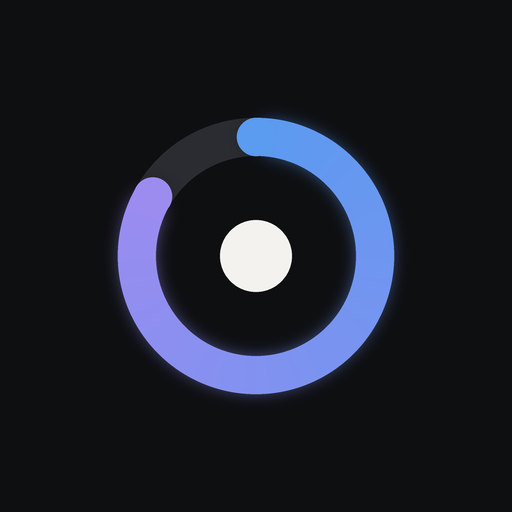
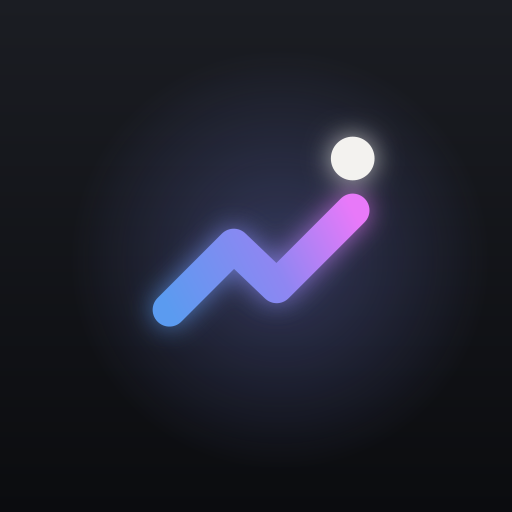
Replace app with redesigned version
New app icon and line icons, minimal notification artwork, icon tab bar,
fully responsive layout from 320px phones to wide desktops.

Claude-Session: https://claude.ai/code/session_01KfAzBMcSSH2gxr9d6scG8H

Changed region(s): [[0.2188, 0.1562, 0.875, 0.7812]]

diff --git a/index.html b/index.html
@@ -248,7 +248,8 @@ summary{cursor:pointer;font-weight:700;font-size:14px}
 /* in-app nudge */
 .nudge{position:fixed;left:50%;top:max(14px,env(safe-area-inset-top));transform:translate(-50%,-140%);width:min(520px,calc(100vw - 20px));background:linear-gradient(135deg,color-mix(in srgb,var(--c) 26%,#17181b),#17181b 70%);border:1px solid color-mix(in srgb,var(--c) 45%,transparent);border-radius:22px;padding:16px 16px 14px;display:grid;grid-template-columns:54px minmax(0,1fr);gap:14px;z-index:45;box-shadow:0 18px 50px #000a,0 0 40px color-mix(in srgb,var(--c) 25%,transparent);transition:transform .55s cubic-bezier(.2,1.2,.3,1)}
 .nudge.on{transform:translate(-50%,0)}
-.nudge .em{width:54px;height:54px;border-radius:18px;display:grid;place-items:center;font-size:28px;background:color-mix(in srgb,var(--c) 22%,#0e0f11);box-shadow:inset 0 0 0 1px color-mix(in srgb,var(--c) 40%,transparent)}
+.nudge .em{width:54px;height:54px;border-radius:18px;display:grid;place-items:center;color:var(--c);background:color-mix(in srgb,var(--c) 16%,#0e0f11);box-shadow:inset 0 0 0 1px color-mix(in srgb,var(--c) 38%,transparent)}
+.nudge .em .gl{width:26px;height:26px;stroke-width:2}
 .nudge .nt{font-size:17px;font-weight:800;line-height:1.2}
 .nudge .nl{font-size:14px;color:#d9d7d2;margin-top:3px}
 .nudge .nm{font-size:12.5px;color:var(--mute);margin-top:4px}
@@ -256,11 +257,15 @@ summary{cursor:pointer;font-weight:700;font-size:14px}
 .nudge .bar{position:absolute;left:16px;right:16px;bottom:6px;height:3px;border-radius:3px;background:var(--line);overflow:hidden}
 .nudge .bar i{display:block;height:100%;background:var(--c);transform-origin:left;animation:shrink var(--t,18s) linear forwards}
 @keyframes shrink{to{transform:scaleX(0)}}
+/* glyphs */
+.gl{width:20px;height:20px;fill:none;stroke:currentColor;stroke-width:2;stroke-linecap:round;stroke-linejoin:round;flex:none}
 /* nav */
 nav{position:fixed;left:50%;bottom:max(12px,env(safe-area-inset-bottom));transform:translateX(-50%);display:flex;gap:2px;background:#1b1c20ee;backdrop-filter:blur(14px);-webkit-backdrop-filter:blur(14px);border:1px solid var(--line);border-radius:18px;padding:5px;z-index:20;max-width:calc(100vw - 16px)}
-nav a{color:var(--mute);text-decoration:none;font-weight:700;font-size:14px;padding:10px 15px;border-radius:13px;min-height:44px;display:flex;align-items:center;white-space:nowrap}
+nav a{color:var(--mute);text-decoration:none;font-weight:700;font-size:14px;padding:9px 14px;border-radius:13px;min-height:44px;display:flex;align-items:center;gap:8px;white-space:nowrap;transition:background .2s,color .2s}
+nav a .gl{width:18px;height:18px}
+nav a:hover{color:var(--ink)}
 nav a.on{background:var(--ink);color:var(--bg)}
-@media(max-width:420px){nav a{padding:10px 10px;font-size:13px}}
+@media(max-width:640px){nav{left:8px;right:8px;transform:none;justify-content:space-between;max-width:none;border-radius:20px;padding:4px}nav a{flex:1;flex-direction:column;gap:3px;font-size:11px;padding:7px 2px;justify-content:center;border-radius:15px}nav a .gl{width:21px;height:21px}}
 .toast{position:fixed;left:50%;top:max(16px,env(safe-area-inset-top));transform:translate(-50%,-20px);background:var(--ink);color:var(--bg);font-weight:700;font-size:14px;padding:10px 16px;border-radius:12px;opacity:0;transition:.3s;z-index:30;pointer-events:none;max-width:90vw;text-align:center}
 .toast.on{opacity:1;transform:translate(-50%,0)}
 .modal{position:fixed;inset:0;display:none;place-items:center;background:#0e0f11cc;z-index:40;padding:16px}
@@ -349,7 +354,7 @@ nav a.on{background:var(--ink);color:var(--bg)}
   <section class="view" id="v-plan"><div id="planWrap"></div></section>
 </div>
 
-<nav aria-label="Views"><a href="#today" data-v="today">Today</a><a href="#goals" data-v="goals">Goals</a><a href="#calendar" data-v="calendar">Calendar</a><a href="#progress" data-v="progress">Progress</a><a href="#plan" data-v="plan">Plan</a></nav>
+<nav aria-label="Views" id="nav"><a href="#today" data-v="today">Today</a><a href="#goals" data-v="goals">Goals</a><a href="#calendar" data-v="calendar">Calendar</a><a href="#progress" data-v="progress">Progress</a><a href="#plan" data-v="plan">Plan</a></nav>
 <div class="toast" id="toast" role="status"></div>
 <div class="nudge" id="nudge" role="alert" aria-live="assertive"></div>
 <div class="modal" id="modal" role="dialog" aria-modal="true"><div class="box" id="mbox"></div></div>
@@ -358,6 +363,8 @@ nav a.on{background:var(--ink);color:var(--bg)}
 <script>
 {
 const DEFAULTS = {"v": 3, "settings": {"name": "Shay", "notify": false, "lead": 5}, "app": "Ascend", "areas": {"java": {"name": "Java & DSA", "color": "#5b9bf0", "prompt": "Teach me [topic] in Java from zero. One small example, then 3 exercises without solutions."}, "math": {"name": "Maths", "color": "#9c8cf0", "prompt": "Explain [topic] simply with numbers, then give me 5 practice questions."}, "zh": {"name": "Chinese", "color": "#f07468", "prompt": "Teach me 10 HSK 1 words with pinyin and tones, then quiz me."}, "comm": {"name": "Communication", "color": "#f3a25a", "prompt": "Role-play a customer. After 10 messages, tell me how confident I sounded."}, "net": {"name": "Networking", "color": "#e3c44e", "prompt": "Help me write a short follow-up message to [person] I met at [place]."}, "book": {"name": "Books & psychology", "color": "#5dc48a", "prompt": "Here is my summary of [chapter]. Ask me 5 questions and tell me what I missed."}, "gym": {"name": "Gym", "color": "#43c2b8", "prompt": ""}, "refl": {"name": "Review", "color": "#e07bc0", "prompt": "Here's my reflection. Ask me 3 questions, then help me choose tomorrow's one task."}, "ai": {"name": "Python & AI", "color": "#a3e635", "prompt": "Teach me [topic] in Python with one small example, then give me a mini exercise without the solution."}, "uni": {"name": "Uni", "color": "#94a3b8", "prompt": "Help me plan my study for [course] this week. Ask what's due first."}, "eng": {"name": "English & writing", "color": "#7dd3fc", "prompt": "Correct my English in this paragraph. List each mistake with a short reason, then give me 5 useful words."}, "money": {"name": "Money", "color": "#d4a373", "prompt": "Explain [concept] for someone in Australia with simple numbers. I'll decide myself."}, "biz": {"name": "Business & startups", "color": "#e879f9", "prompt": "Act as a tough startup mentor. Here's my idea. Ask me the hardest questions an investor would ask."}, "style": {"name": "Fashion", "color": "#f9a8d4", "prompt": "Here's my outfit. Give honest feedback on fit, colours and what to change."}}, "templates": [{"from": "2026-11-21", "week": {"0": [{"s": "07:30", "e": "08:00", "a": "zh", "t": "Chinese"}, {"s": "08:00", "e": "09:30", "a": "java", "t": "Java & DSA: new concept"}, {"s": "09:45", "e": "10:45", "a": "math", "t": "Maths"}, {"s": "11:00", "e": "12:00", "a": "gym", "t": "Gym: upper"}, {"s": "13:30", "e": "14:30", "a": "java", "t": "DSA problems"}, {"s": "15:00", "e": "16:00", "a": "book", "t": "Book"}, {"s": "16:00", "e": "17:00", "a": "comm", "t": "Talk practice"}, {"s": "19:00", "e": "20:00", "a": "net", "t": "LinkedIn & outreach"}], "1": [{"s": "07:30", "e": "08:00", "a": "zh", "t": "Chinese"}, {"s": "08:00", "e": "09:30", "a": "java", "t": "Java & DSA"}, {"s": "09:45", "e": "10:45", "a": "gym", "t": "Gym: lower"}, {"s": "19:00", "e": "20:00", "a": "book", "t": "Book"}], "2": [{"s": "07:30", "e": "08:00", "a": "zh", "t": "Chinese"}, {"s": "08:00", "e": "09:30", "a": "java", "t": "Java & DSA"}, {"s": "09:45", "e": "10:45", "a": "math", "t": "Maths"}, {"s": "19:00", "e": "20:00", "a": "net", "t": "Event / social"}], "3": [{"s": "07:30", "e": "08:00", "a": "zh", "t": "Chinese"}, {"s": "08:00", "e": "09:30", "a": "java", "t": "Java & DSA: new concept"}, {"s": "09:45", "e": "10:45", "a": "math", "t": "Maths"}, {"s": "11:00", "e": "12:00", "a": "gym", "t": "Gym: upper"}, {"s": "13:30", "e": "14:30", "a": "java", "t": "DSA problems"}, {"s": "15:00", "e": "16:00", "a": "book", "t": "Psychology"}, {"s": "16:00", "e": "17:00", "a": "comm", "t": "Record a 2-min talk"}], "4": [{"s": "07:30", "e": "08:00", "a": "zh", "t": "Chinese"}, {"s": "08:00", "e": "09:30", "a": "java", "t": "Java project"}, {"s": "09:45", "e": "10:45", "a": "math", "t": "Maths"}, {"s": "11:00", "e": "12:00", "a": "gym", "t": "Gym: lower"}, {"s": "13:30", "e": "14:30", "a": "book", "t": "Psychology"}, {"s": "15:00", "e": "16:00", "a": "net", "t": "Coffee chat"}], "5": [{"s": "07:30", "e": "08:00", "a": "zh", "t": "Chinese"}], "6": [{"s": "09:45", "e": "10:15", "a": "zh", "t": "Chinese review"}, {"s": "16:00", "e": "17:00", "a": "refl", "t": "Weekly review"}]}, "nightly": {"s": "21:30", "e": "21:35", "a": "refl", "t": "5-min reflection"}}, {"from": "2027-02-22", "week": {"0": [{"s": "07:30", "e": "07:50", "a": "zh", "t": "Chinese"}, {"s": "08:00", "e": "09:00", "a": "java", "t": "DSA practice"}, {"s": "10:00", "e": "15:00", "a": "uni", "t": "Uni: classes & study"}, {"s": "15:30", "e": "16:30", "a": "gym", "t": "Gym: upper"}, {"s": "19:00", "e": "20:00", "a": "ai", "t": "Python & data libraries"}], "1": [{"s": "07:30", "e": "07:50", "a": "zh", "t": "Chinese"}, {"s": "08:00", "e": "09:30", "a": "ai", "t": "Python & data libraries"}, {"s": "19:00", "e": "19:30", "a": "eng", "t": "English: write & correct"}, {"s": "19:30", "e": "20:00", "a": "book", "t": "Book"}], "2": [{"s": "07:30", "e": "07:50", "a": "zh", "t": "Chinese"}, {"s": "08:00", "e": "09:00", "a": "math", "t": "Maths for ML"}, {"s": "10:00", "e": "15:00", "a": "uni", "t": "Uni: classes & study"}, {"s": "18:00", "e": "19:30", "a": "net", "t": "Event / networking"}], "3": [{"s": "07:30", "e": "07:50", "a": "zh", "t": "Chinese"}, {"s": "08:00", "e": "09:30", "a": "java", "t": "DSA: advanced topics"}, {"s": "10:00", "e": "15:00", "a": "uni", "t": "Uni: classes & study"}, {"s": "15:30", "e": "16:30", "a": "gym", "t": "Gym: lower"}, {"s": "19:00", "e": "19:30", "a": "comm", "t": "Public speaking practice"}], "4": [{"s": "07:30", "e": "07:50", "a": "zh", "t": "Chinese"}, {"s": "08:00", "e": "09:00", "a": "ai", "t": "Portfolio project"}, {"s": "10:00", "e": "14:00", "a": "uni", "t": "Uni: classes & study"}, {"s": "14:30", "e": "15:30", "a": "gym", "t": "Gym: upper"}, {"s": "16:00", "e": "16:30", "a": "money", "t": "Money check: budget & savings"}, {"s": "16:30", "e": "17:30", "a": "biz", "t": "Business & startups"}], "5": [{"s": "08:00", "e": "08:20", "a": "zh", "t": "Chinese"}, {"s": "17:00", "e": "18:00", "a": "style", "t": "Fashion: learn & plan outfits"}], "6": [{"s": "09:30", "e": "10:00", "a": "zh", "t": "Chinese review"}, {"s": "10:30", "e": "11:30", "a": "gym", "t": "Gym: lower"}, {"s": "16:00", "e": "16:45", "a": "refl", "t": "Weekly review"}, {"s": "16:45", "e": "17:15", "a": "ai", "t": "AI news & updates"}]}, "nightly": {"s": "21:30", "e": "21:35", "a": "refl", "t": "5-min reflection"}}, {"from": "2027-07-01", "week": {"0": [{"s": "07:30", "e": "07:50", "a": "zh", "t": "Chinese"}, {"s": "08:00", "e": "09:00", "a": "java", "t": "Interview problems"}, {"s": "10:00", "e": "15:00", "a": "uni", "t": "Uni: classes & study"}, {"s": "15:30", "e": "16:30", "a": "gym", "t": "Gym: upper"}, {"s": "19:00", "e": "20:30", "a": "ai", "t": "AI app project"}], "1": [{"s": "07:30", "e": "07:50", "a": "zh", "t": "Chinese"}, {"s": "08:00", "e": "09:30", "a": "ai", "t": "Machine learning course"}, {"s": "19:00", "e": "20:00", "a": "biz", "t": "Job applications"}, {"s": "20:00", "e": "20:30", "a": "book", "t": "Book"}], "2": [{"s": "07:30", "e": "07:50", "a": "zh", "t": "Chinese"}, {"s": "08:00", "e": "09:00", "a": "comm", "t": "Mock interview"}, {"s": "10:00", "e": "15:00", "a": "uni", "t": "Uni: classes & study"}, {"s": "18:00", "e": "19:30", "a": "net", "t": "Event / coffee chat"}], "3": [{"s": "07:30", "e": "07:50", "a": "zh", "t": "Chinese"}, {"s": "08:00", "e": "09:30", "a": "ai", "t": "AI app project"}, {"s": "10:00", "e": "15:00", "a": "uni", "t": "Uni: classes & study"}, {"s": "15:30", "e": "16:30", "a": "gym", "t": "Gym: lower"}, {"s": "19:00", "e": "19:30", "a": "eng", "t": "English & writing"}], "4": [{"s": "07:30", "e": "07:50", "a": "zh", "t": "Chinese"}, {"s": "08:00", "e": "09:00", "a": "math", "t": "Statistics for ML"}, {"s": "10:00", "e": "14:00", "a": "uni", "t": "Uni: classes & study"}, {"s": "14:30", "e": "15:30", "a": "gym", "t": "Gym: upper"}, {"s": "16:00", "e": "16:30", "a": "money", "t": "Investing check-in"}, {"s": "16:30", "e": "17:30", "a": "biz", "t": "Side income project"}], "5": [{"s": "08:00", "e": "08:20", "a": "zh", "t": "Chinese"}, {"s": "17:00", "e": "18:00", "a": "style", "t": "Fashion photo shoot"}], "6": [{"s": "09:30", "e": "10:00", "a": "zh", "t": "Chinese conversation"}, {"s": "10:30", "e": "11:30", "a": "gym", "t": "Gym: lower"}, {"s": "16:00", "e": "16:45", "a": "refl", "t": "Weekly review"}, {"s": "16:45", "e": "17:15", "a": "ai", "t": "AI news & updates"}]}, "nightly": {"s": "21:30", "e": "21:35", "a": "refl", "t": "5-min reflection"}}], "cats": {"career": {"name": "Career & money", "color": "#e879f9"}, "steps": {"name": "Career steps", "color": "#5b9bf0"}, "money": {"name": "Money habits", "color": "#d4a373"}, "tech": {"name": "Programming & AI", "color": "#a3e635"}, "skills": {"name": "Skills", "color": "#f3a25a"}, "growth": {"name": "Learning & growth", "color": "#f07468"}, "health": {"name": "Health & lifestyle", "color": "#43c2b8"}, "track": {"name": "Staying on track", "color": "#e07bc0"}}, "goals": [{"id": "g1", "title": "Java & data structures", "cat": "tech", "start": "2026-11-21", "target": "2027-02-21", "why": "", "status": "auto", "note": "", "milestones": [{"t": "Java OOP refresh, arrays, ArrayList, HashMap", "done": false}, {"t": "Recursion, linked lists, stacks, queues", "done": false}, {"t": "Trees, hash maps, sorting & searching, Big-O", "done": false}, {"t": "Solve 60 coding problems", "done": false}]}, {"id": "g2", "title": "Basic maths for programming", "cat": "tech", "start": "2026-11-21", "target": "2027-02-21", "why": "", "status": "auto", "note": "", "milestones": [{"t": "Algebra, functions & logic", "done": false}, {"t": "Sets, counting & probability", "done": false}, {"t": "Logs, sequences & induction", "done": false}]}, {"id": "g3", "title": "Chinese: HSK 1", "cat": "growth", "start": "2026-11-21", "target": "2027-02-21", "why": "", "status": "auto", "note": "", "milestones": [{"t": "Pinyin & the 4 tones", "done": false}, {"t": "100 words", "done": false}, {"t": "All HSK 1 words", "done": false}, {"t": "Speak 1 minute about yourself", "done": false}]}, {"id": "g4", "title": "Networking foundations", "cat": "growth", "start": "2026-11-21", "target": "2027-02-21", "why": "", "status": "auto", "note": "", "milestones": [{"t": "Read Never Eat Alone", "done": false}, {"t": "LinkedIn updated", "done": false}, {"t": "Connect with 10 people", "done": false}, {"t": "3 coffee chats", "done": false}]}, {"id": "g5", "title": "Psychology & communication books", "cat": "growth", "start": "2026-11-21", "target": "2027-02-21", "why": "", "status": "auto", "note": "", "milestones": [{"t": "Never Eat Alone", "done": false}, {"t": "How to Win Friends and Influence People", "done": false}, {"t": "Mindset", "done": false}, {"t": "Influence", "done": false}, {"t": "The Charisma Myth", "done": false}, {"t": "Thinking, Fast and Slow", "done": false}]}, {"id": "g6", "title": "Daily reflection habit", "cat": "track", "start": "2026-11-21", "target": "2027-02-21", "why": "", "status": "auto", "note": "", "milestones": [{"t": "7-day streak", "done": false}, {"t": "30-day streak", "done": false}, {"t": "Weekly review every Sunday for a month", "done": false}]}, {"id": "g7", "title": "Time management with a weekly plan", "cat": "skills", "start": "2026-11-21", "target": "2027-02-21", "why": "", "status": "auto", "note": "", "milestones": [{"t": "Follow the plan 4 weeks in a row", "done": false}, {"t": "Use the busy-day minimum on heavy days", "done": false}, {"t": "Hit 70% of planned time in a month", "done": false}]}, {"id": "g8", "title": "Confident communication & conversation", "cat": "skills", "start": "2026-11-21", "target": "2027-12-31", "why": "", "status": "auto", "note": "", "milestones": [{"t": "3 real conversations every shift", "done": false}, {"t": "Tell a short story with structure", "done": false}, {"t": "Record 2-minute talks that feel natural", "done": false}, {"t": "Lead a group conversation at an event", "done": false}]}, {"id": "g9", "title": "Gym discipline & weight gain", "cat": "health", "start": "2026-11-21", "target": "2027-12-31", "why": "", "status": "auto", "note": "", "milestones": [{"t": "4 days a week for 12 weeks", "done": false}, {"t": "Simple whole-food meal plan", "done": false}, {"t": "Visible progress photo at 3 months", "done": false}, {"t": "Keep 4 days a week through semester", "done": false}]}, {"id": "g10", "title": "Expand vocabulary", "cat": "growth", "start": "2026-11-21", "target": "2027-12-31", "why": "", "status": "auto", "note": "", "milestones": [{"t": "10 new words per book", "done": false}, {"t": "Use new words in writing every week", "done": false}, {"t": "200 new words", "done": false}]}, {"id": "g11", "title": "Improve English", "cat": "growth", "start": "2026-11-21", "target": "2027-12-31", "why": "", "status": "auto", "note": "", "milestones": [{"t": "15 minutes a day", "done": false}, {"t": "Write and correct 1 piece a week", "done": false}, {"t": "Write a clear 1-page project write-up", "done": false}]}, {"id": "g12", "title": "Keep up with AI updates", "cat": "tech", "start": "2026-11-21", "target": "2027-12-31", "why": "", "status": "auto", "note": "", "milestones": [{"t": "30 minutes every Sunday", "done": false}, {"t": "Try one new AI tool a month", "done": false}, {"t": "Share what you learned in a post", "done": false}]}, {"id": "g13", "title": "Strong grades in Semester 1", "cat": "steps", "start": "2027-02-22", "target": "2027-06-30", "why": "", "status": "auto", "note": "", "milestones": [{"t": "Review lectures the same week", "done": false}, {"t": "Start assignments a week early", "done": false}, {"t": "Strong results in every course", "done": false}]}, {"id": "g14", "title": "Python & data libraries", "cat": "tech", "start": "2027-02-22", "target": "2027-06-30", "why": "", "status": "auto", "note": "", "milestones": [{"t": "Python basics", "done": false}, {"t": "NumPy", "done": false}, {"t": "Pandas", "done": false}, {"t": "Matplotlib charts", "done": false}]}, {"id": "g15", "title": "Maths for machine learning", "cat": "tech", "start": "2027-02-22", "target": "2027-06-30", "why": "", "status": "auto", "note": "", "milestones": [{"t": "Vectors & matrices", "done": false}, {"t": "Statistics basics", "done": false}, {"t": "Probability for ML", "done": false}]}, {"id": "g16", "title": "Portfolio: GitHub & LinkedIn", "cat": "steps", "start": "2027-02-22", "target": "2027-06-30", "why": "", "status": "auto", "note": "", "milestones": [{"t": "GitHub profile set up", "done": false}, {"t": "2 projects with clear READMEs", "done": false}, {"t": "LinkedIn headline & projects updated", "done": false}]}, {"id": "g17", "title": "Budget & automatic saving", "cat": "money", "start": "2027-02-22", "target": "2027-06-30", "why": "", "status": "auto", "note": "", "milestones": [{"t": "Write a simple budget", "done": false}, {"t": "Automatic transfer to savings each payday", "done": false}, {"t": "Emergency fund: 1 month of expenses", "done": false}]}, {"id": "g18", "title": "Understand personal finance & investing", "cat": "career", "start": "2027-02-22", "target": "2027-06-30", "why": "", "status": "auto", "note": "", "milestones": [{"t": "Super & tax return basics", "done": false}, {"t": "How ETFs and index funds work", "done": false}, {"t": "Decide your own monthly investing amount", "done": false}]}, {"id": "g19", "title": "Public speaking", "cat": "skills", "start": "2027-02-22", "target": "2027-06-30", "why": "", "status": "auto", "note": "", "milestones": [{"t": "Speak up in every tutorial", "done": false}, {"t": "Join a club or society", "done": false}, {"t": "Give a 5-minute talk", "done": false}]}, {"id": "g20", "title": "Chinese: HSK 2", "cat": "growth", "start": "2027-02-22", "target": "2027-06-30", "why": "", "status": "auto", "note": "", "milestones": [{"t": "150 more words", "done": false}, {"t": "Simple daily conversations", "done": false}, {"t": "Practice test passed", "done": false}]}, {"id": "g21", "title": "Learn Australian startups & entrepreneurship", "cat": "career", "start": "2027-02-22", "target": "2027-06-30", "why": "", "status": "auto", "note": "", "milestones": [{"t": "1 startup or tech event a month", "done": false}, {"t": "Know 10 Canberra startups and their founders", "done": false}, {"t": "Write notes on how 3 of them started", "done": false}]}, {"id": "g22", "title": "Business fundamentals", "cat": "career", "start": "2027-02-22", "target": "2027-06-30", "why": "", "status": "auto", "note": "", "milestones": [{"t": "Read The Lean Startup", "done": false}, {"t": "Business model canvas for one idea", "done": false}, {"t": "Talk to 5 potential customers", "done": false}]}, {"id": "g23", "title": "Sales & negotiation", "cat": "skills", "start": "2027-02-22", "target": "2027-06-30", "why": "", "status": "auto", "note": "", "milestones": [{"t": "Practise one sales technique per shift", "done": false}, {"t": "Read Never Split the Difference", "done": false}, {"t": "Negotiate one real price", "done": false}]}, {"id": "g24", "title": "Clear writing", "cat": "skills", "start": "2027-02-22", "target": "2027-06-30", "why": "", "status": "auto", "note": "", "milestones": [{"t": "1 LinkedIn post a month", "done": false}, {"t": "Clear READMEs for every project", "done": false}, {"t": "Get feedback on one piece of writing", "done": false}]}, {"id": "g25", "title": "Learn about fashion", "cat": "health", "start": "2027-02-22", "target": "2027-06-30", "why": "", "status": "auto", "note": "", "milestones": [{"t": "Fit and colour basics", "done": false}, {"t": "Plan a simple capsule wardrobe", "done": false}, {"t": "5 outfits you feel great in", "done": false}]}, {"id": "g26", "title": "Machine learning & deep learning", "cat": "tech", "start": "2027-07-01", "target": "2027-12-31", "why": "", "status": "auto", "note": "", "milestones": [{"t": "Classical ML with scikit-learn", "done": false}, {"t": "Neural networks with PyTorch", "done": false}, {"t": "NLP & transformers basics", "done": false}]}, {"id": "g27", "title": "Build & deploy an AI app", "cat": "tech", "start": "2027-07-01", "target": "2027-12-31", "why": "", "status": "auto", "note": "", "milestones": [{"t": "Pick an idea and scope it", "done": false}, {"t": "Working MVP", "done": false}, {"t": "Deployed online", "done": false}, {"t": "Write-up on GitHub & LinkedIn", "done": false}]}, {"id": "g28", "title": "3 strong portfolio projects", "cat": "steps", "start": "2027-07-01", "target": "2027-12-31", "why": "", "status": "auto", "note": "", "milestones": [{"t": "Project 1 polished", "done": false}, {"t": "Project 2 polished", "done": false}, {"t": "AI app as project 3", "done": false}]}, {"id": "g29", "title": "Land an AI/ML internship or graduate job", "cat": "steps", "start": "2027-07-01", "target": "2027-12-31", "why": "", "status": "auto", "note": "", "milestones": [{"t": "List 15 target companies & dates", "done": false}, {"t": "CV reviewed by ANU Careers", "done": false}, {"t": "Apply to 5 roles a week in season", "done": false}, {"t": "Weekly mock interviews", "done": false}, {"t": "Offer accepted", "done": false}]}, {"id": "g30", "title": "Invest every month", "cat": "money", "start": "2027-07-01", "target": "2027-12-31", "why": "", "status": "auto", "note": "", "milestones": [{"t": "Choose a platform after research", "done": false}, {"t": "First investment", "done": false}, {"t": "6 months in a row", "done": false}]}, {"id": "g31", "title": "Test a side income (e.g. car reselling)", "cat": "money", "start": "2027-07-01", "target": "2027-12-31", "why": "", "status": "auto", "note": "", "milestones": [{"t": "Set a budget and a stop point", "done": false}, {"t": "First deal done", "done": false}, {"t": "Review: keep going or stop", "done": false}]}, {"id": "g32", "title": "Camera & fashion photos for Instagram", "cat": "health", "start": "2027-07-01", "target": "2027-12-31", "why": "", "status": "auto", "note": "", "milestones": [{"t": "Buy a camera once savings are on track", "done": false}, {"t": "First 10 photos", "done": false}, {"t": "Post every week for a month", "done": false}]}, {"id": "g33", "title": "Chinese: HSK 2–3 conversations", "cat": "growth", "start": "2027-07-01", "target": "2027-12-31", "why": "", "status": "auto", "note": "", "milestones": [{"t": "10-minute conversation", "done": false}, {"t": "HSK 3 vocabulary started", "done": false}, {"t": "Chat with a native speaker", "done": false}]}, {"id": "g34", "title": "Network: referrals & mentors", "cat": "growth", "start": "2027-07-01", "target": "2027-12-31", "why": "", "status": "auto", "note": "", "milestones": [{"t": "Ask 3 contacts for coffee chats", "done": false}, {"t": "Find a mentor", "done": false}, {"t": "1 referral for a role", "done": false}]}, {"id": "g35", "title": "Finish Master's with strong grades", "cat": "steps", "start": "2027-07-01", "target": "2027-12-31", "why": "", "status": "auto", "note": "", "milestones": [{"t": "Strong Semester 2 results", "done": false}, {"t": "Final project done", "done": false}, {"t": "Graduate", "done": false}]}, {"id": "g36", "title": "Become a leader & build a startup", "cat": "career", "start": "2028-01-01", "target": "2031-12-31", "why": "", "status": "auto", "note": "", "milestones": [{"t": "Lead a team or project", "done": false}, {"t": "Validate an idea with real customers", "done": false}, {"t": "Launch an MVP", "done": false}, {"t": "First paying customers", "done": false}]}, {"id": "g37", "title": "Become a millionaire by 30–35", "cat": "career", "start": "2026-11-21", "target": "2036-12-31", "why": "", "status": "auto", "note": "", "milestones": [{"t": "Emergency fund in place", "done": false}, {"t": "Investing every month", "done": false}, {"t": "First $10k invested", "done": false}, {"t": "Income from a business or side project", "done": false}, {"t": "Net worth $100k", "done": false}, {"t": "Net worth $1M", "done": false}]}], "periods": [{"name": "Phase 1 · Block A", "start": "2026-11-21", "end": "2026-12-20", "focus": {"java": "Java OOP refresh, arrays & strings, ArrayList and HashMap", "math": "Algebra refresh, functions & graphs, logic", "zh": "Pinyin & the 4 tones, greetings & numbers, 50 words", "comm": "3 real chats per shift, open questions, active listening", "net": "Learn the Never Eat Alone method, update LinkedIn", "book": "Never Eat Alone, then How to Win Friends and Influence People", "gym": "4 days: upper / lower, learn good form", "refl": "What did I do today? What did I learn? One task for tomorrow?"}}, {"name": "Phase 1 · Block B", "start": "2026-12-21", "end": "2027-01-24", "focus": {"java": "Recursion, linked lists, stacks & queues", "math": "Sets, counting, basic probability", "zh": "HSK 1 vocabulary, simple sentences, 100+ words", "comm": "Tell 1 short story a day, storytelling structure", "net": "Connect with 10 people, 1 coffee chat", "book": "Mindset, then Influence", "gym": "Keep 4 days over Christmas, add weight slowly", "refl": "What did I do today? What did I learn? One task for tomorrow?"}}, {"name": "Phase 1 · Block C", "start": "2027-01-25", "end": "2027-02-21", "focus": {"java": "Hash maps & trees, sorting & searching, Big-O, mini project", "math": "Logs & exponents, sequences & sums, induction basics", "zh": "Finish HSK 1, daily dialogues, 1-minute self-intro", "comm": "Record 2-minute talks, watch back, fix 1 thing", "net": "1 event or O-Week, 2 coffee chats, keep a contacts list", "book": "The Charisma Myth, then Thinking, Fast and Slow", "gym": "Same split, check progress every 2 weeks", "refl": "What did I do today? What did I learn? One task for tomorrow?"}}, {"name": "Phase 2 · Build", "start": "2027-02-22", "end": "2027-06-30", "focus": {"java": "Advanced DSA: graphs, heaps, dynamic programming; start Python, NumPy, Pandas", "math": "Maths for ML: vectors, matrices, statistics", "zh": "HSK 2, 20 minutes a day", "comm": "Speak up in tutorials, join a public speaking club", "net": "1 startup or tech event a month", "book": "1 business, finance or psychology book a month", "gym": "4 days a week", "refl": "What did I do today? What did I learn? One task for tomorrow?", "ai": "Python basics, then NumPy, Pandas and Matplotlib", "uni": "Review lectures the same week; start assignments early", "eng": "Write and correct one piece a week", "money": "Budget, automatic saving, emergency fund", "biz": "Lean Startup ideas, events, talk to customers", "style": "Fit, colour and a simple capsule wardrobe"}}, {"name": "Phase 3 · Launch", "start": "2027-07-01", "end": "2027-12-31", "focus": {"java": "Machine learning, then deep learning; build and deploy an AI app", "math": "Statistics and probability for ML", "zh": "HSK 2–3 and simple conversations", "comm": "Mock interviews and negotiation in real situations", "net": "Coffee chats and referrals for internships and graduate roles", "book": "Keep reading: business, psychology, AI", "gym": "4 days a week", "refl": "What did I do today? What did I learn? One task for tomorrow?", "ai": "Machine learning, deep learning, then deploy your AI app", "uni": "Strong results and your final project", "eng": "Clear project write-ups and cover letters", "money": "Invest monthly and track side income", "biz": "Applications 5 a week in season; test a side income", "style": "A weekly photo shoot for Instagram"}}], "books": [{"start": "2026-11-21", "end": "2026-12-04", "title": "Never Eat Alone", "author": "Keith Ferrazzi"}, {"start": "2026-12-05", "end": "2026-12-18", "title": "How to Win Friends and Influence People", "author": "Dale Carnegie"}, {"start": "2026-12-19", "end": "2027-01-01", "title": "Mindset", "author": "Carol Dweck"}, {"start": "2027-01-02", "end": "2027-01-15", "title": "Influence", "author": "Robert Cialdini"}, {"start": "2027-01-16", "end": "2027-01-29", "title": "The Charisma Myth", "author": "Olivia Fox Cabane"}, {"start": "2027-01-30", "end": "2027-02-12", "title": "Thinking, Fast and Slow", "author": "Daniel Kahneman"}, {"start": "2027-02-13", "end": "2027-03-12", "title": "The Psychology of Money", "author": "Morgan Housel"}, {"start": "2027-03-13", "end": "2027-04-12", "title": "The Lean Startup", "author": "Eric Ries"}, {"start": "2027-04-13", "end": "2027-05-12", "title": "Talk Like TED", "author": "Carmine Gallo"}, {"start": "2027-05-13", "end": "2027-06-12", "title": "Zero to One", "author": "Peter Thiel"}, {"start": "2027-06-13", "end": "2027-07-12", "title": "Never Split the Difference", "author": "Chris Voss"}, {"start": "2027-07-13", "end": "2027-08-12", "title": "The Millionaire Next Door", "author": "Thomas Stanley & William Danko"}, {"start": "2027-08-13", "end": "2027-09-12", "title": "Deep Work", "author": "Cal Newport"}, {"start": "2027-09-13", "end": "2027-10-12", "title": "The Hard Thing About Hard Things", "author": "Ben Horowitz"}, {"start": "2027-10-13", "end": "2027-11-12", "title": "Leaders Eat Last", "author": "Simon Sinek"}, {"start": "2027-11-13", "end": "2027-12-12", "title": "I Will Teach You to Be Rich", "author": "Ramit Sethi"}], "minimum": ["20 min Java or 1 DSA problem", "15 min Chinese", "10 pages of your book", "1 real conversation", "5-min reflection"], "minLinks": [{"a": "java", "m": 20}, {"a": "zh", "m": 15}, {"a": "book", "m": 10}, null, {"a": "refl", "m": 5}], "days": {}};
+const GLYPHS = {"java": "M8 7l-5 5 5 5M16 7l5 5-5 5M14 4l-4 16", "math": "M18 5H6l6 7-6 7h12", "zh": "M4 6h9M8.5 4v2M6 6c.5 3.5 3 6 7 7M11 6c-.6 3-3 6.2-6.5 7.5M13 20l4-9 4 9M14.4 17h5.2", "comm": "M21 12a8 8 0 0 1-11.6 7.1L4 20l1-4.6A8 8 0 1 1 21 12z", "net": "M16 20v-1.5a3.5 3.5 0 0 0-3.5-3.5h-5A3.5 3.5 0 0 0 4 18.5V20M10 11.5a3.5 3.5 0 1 0 0-7 3.5 3.5 0 0 0 0 7zM20 20v-1.5a3.5 3.5 0 0 0-2.5-3.3M15.5 4.7a3.5 3.5 0 0 1 0 6.6", "book": "M2 5h6a4 4 0 0 1 4 4v11a3 3 0 0 0-3-3H2zM22 5h-6a4 4 0 0 0-4 4v11a3 3 0 0 1 3-3h7z", "gym": "M6.5 6.5v11M17.5 6.5v11M3 9.5v5M21 9.5v5M6.5 12h11", "refl": "M20 14.5A8 8 0 1 1 9.5 4a6.5 6.5 0 0 0 10.5 10.5z", "ai": "M12 3l1.8 4.7 4.7 1.8-4.7 1.8L12 16l-1.8-4.7-4.7-1.8 4.7-1.8zM19 15l.8 2.2 2.2.8-2.2.8L19 21l-.8-2.2L16 18l2.2-.8z", "uni": "M2 9l10-5 10 5-10 5zM6 11v5c0 1.5 2.7 3 6 3s6-1.5 6-3v-5M22 9v6", "eng": "M12 20h9M16.5 3.5a2.1 2.1 0 0 1 3 3L7 19l-4 1 1-4z", "money": "M12 3a9 9 0 1 0 0 18 9 9 0 0 0 0-18zM15 9.5c-.5-1-1.6-1.5-3-1.5-1.7 0-3 .8-3 2s1.3 1.8 3 2 3 .8 3 2-1.3 2-3 2c-1.4 0-2.5-.5-3-1.5M12 6.5v11", "biz": "M5 15c-1.5 1.3-2 5-2 5s3.7-.5 5-2c.7-.8.7-2.1-.1-2.9a2.1 2.1 0 0 0-2.9-.1zM12 15l-3-3a22 22 0 0 1 2-4A12.9 12.9 0 0 1 22 2c0 2.7-.8 7.5-6 11a22.4 22.4 0 0 1-4 2zM9 12H4s.6-3 2-4c1.6-1.1 5 0 5 0M12 15v5s3-.6 4-2c1.1-1.6 0-5 0-5", "style": "M20.4 6.6L16 4a4 4 0 0 1-8 0L3.6 6.6a1 1 0 0 0-.5 1.2l1 3a1 1 0 0 0 1.3.6L7 10.8V20a1 1 0 0 0 1 1h8a1 1 0 0 0 1-1v-9.2l1.6.6a1 1 0 0 0 1.3-.6l1-3a1 1 0 0 0-.5-1.2z", "done": "M8 12.5l2.8 2.8L16.5 9.5", "streak": "M12 22c4 0 7-2.8 7-6.8 0-3.5-2.2-5.7-3.6-8.6-.9 2.3-2.4 3.4-3.6 3.4.3-3-1-5.6-3.3-7-.1 3.8-4.5 6.6-4.5 12.2C4 19.2 7.6 22 12 22z", "nav-today": "M12 8a4 4 0 1 0 0 8 4 4 0 0 0 0-8zM12 2v2M12 20v2M4.9 4.9l1.4 1.4M17.7 17.7l1.4 1.4M2 12h2M20 12h2M4.9 19.1l1.4-1.4M17.7 6.3l1.4-1.4", "nav-goals": "M12 21a9 9 0 1 0 0-18 9 9 0 0 0 0 18zM12 16.5a4.5 4.5 0 1 0 0-9 4.5 4.5 0 0 0 0 9zM12 12.5a.5.5 0 1 0 0-1 .5.5 0 0 0 0 1z", "nav-calendar": "M4 6.5A1.5 1.5 0 0 1 5.5 5h13A1.5 1.5 0 0 1 20 6.5v12a1.5 1.5 0 0 1-1.5 1.5h-13A1.5 1.5 0 0 1 4 18.5zM4 10h16M8 3v4M16 3v4", "nav-progress": "M5 20v-7M11 20V5M17 20v-10M3 20h18", "nav-plan": "M4 7h9M17 7h3M4 17h3M11 17h9M15 5v4M9 15v4"};
+const gl = (k, cls = '') => GLYPHS[k] ? `<svg class="gl ${cls}" viewBox="0 0 24 24" aria-hidden="true"><path d="${GLYPHS[k]}"/></svg>` : '';
 const $ = id => document.getElementById(id);
 const pad = n => String(n).padStart(2, '0');
 const iso = d => `${d.getFullYear()}-${pad(d.getMonth() + 1)}-${pad(d.getDate())}`;
@@ -616,7 +623,7 @@ let nudgeT = null;
 function nudge({ a, title, line, meta, actions = [], seconds = 18 }) {
   const n = $('nudge'), c = a === 'done' ? '#5dc48a' : a === 'streak' ? '#f3a25a' : (col(a) || '#5b9bf0');
   n.style.setProperty('--c', c); n.style.setProperty('--t', seconds + 's');
-  n.innerHTML = `<div class="em" aria-hidden="true">${a === 'done' ? '✅' : a === 'streak' ? '🔥' : emo(a)}</div><div><div class="nt">${esc(title)}</div><div class="nl">${esc(line)}</div>${meta ? `<div class="nm">${esc(meta)}</div>` : ''}
+  n.innerHTML = `<div class="em" aria-hidden="true">${gl(GLYPHS[a] ? a : 'done')}</div><div><div class="nt">${esc(title)}</div><div class="nl">${esc(line)}</div>${meta ? `<div class="nm">${esc(meta)}</div>` : ''}
     <div class="btns">${actions.map(x => `<button class="${x.primary ? 'go' : 'ghost'} sm" ${x.attrs || ''}>${esc(x.label)}</button>`).join('')}<button class="ghost sm" data-act="nudgeClose">Dismiss</button></div></div><div class="bar"><i></i></div>`;
   n.classList.remove('on'); void n.offsetWidth; n.classList.add('on'); chime(true);
   clearTimeout(nudgeT); nudgeT = setTimeout(() => n.classList.remove('on'), seconds * 1000);
@@ -624,10 +631,10 @@ function nudge({ a, title, line, meta, actions = [], seconds = 18 }) {
 // show inside the app when it's on screen, as a system notification when it isn't
 function alertBlock(it, di, kind) {
   const A = area(it.a), lead = +S.settings.lead || 0, line = lineFor(it.a, di + it.key + kind);
-  const title = kind === 'lead' ? `${emo(it.a)} ${A.name} in ${lead} min` : `${emo(it.a)} Time for ${it.t}`;
+  const title = kind === 'lead' ? `${A.name} in ${lead} min` : `Time for ${it.t}`;
   const meta = `${it.s}–${it.e}${focusFor(it.a, di) ? ' · ' + focusFor(it.a, di) : ''}`;
   if (!document.hidden) nudge({ a: it.a, title, line, meta, actions: timer ? [] : [{ label: `Start focus · ${it.len} min`, primary: true, attrs: `data-act="start" data-d="${di}" data-k="${esc(it.key)}"` }] });
-  else notify(title, `${line}\n${meta}`, { tag: 'blk-' + di + it.key, image: NIMG.has(it.a) ? `img/n-${it.a}.png` : undefined, actions: [{ action: 'start', title: '▶ Start focus' }, { action: 'later', title: 'Later' }], data: { di, key: it.key } });
+  else notify(title, `${line}\n${meta}`, { tag: 'blk-' + di + it.key, image: NIMG.has(it.a) ? `img/n-${it.a}.png` : undefined, actions: [{ action: 'start', title: 'Start focus' }, { action: 'later', title: 'Later' }], data: { di, key: it.key } });
 }
 function scheduleNotifications() {
   notifTimers.forEach(clearTimeout); notifTimers = [];
@@ -645,7 +652,7 @@ function scheduleNotifications() {
     later(at(d, '20:30') - Date.now(), () => {
       if (minDone(di)) return;
       const st = derive().curStreak, line = st ? `Your ${st}-day streak is on the line. Finish the daily minimum tonight.` : 'Finish the daily minimum tonight and start a new streak.';
-      const title = st ? `🔥 Keep your ${st}-day streak alive` : '🔥 Start a streak tonight';
+      const title = st ? `Keep your ${st}-day streak alive` : 'Start a streak tonight';
       if (!document.hidden) nudge({ a: 'streak', title, line, meta: 'We got stories to tell and places to be.', actions: [{ label: 'Open Today', primary: true, attrs: 'data-go="today"' }] });
       else notify(title, line, { tag: 'streak-' + di, image: 'img/n-streak.png', data: {} });
     });
@@ -659,13 +666,13 @@ async function keepAwake(on) { try { if (on && 'wakeLock' in navigator && !wake)
 function startTimer(di, key, len) {
   const it = itemsFor(di).find(i => i.key === key); if (!it) return;
   const remain = it.len - focusedMin(di, it);
-  if (remain <= 0) { toast('Already complete ✓'); return; }
+  if (remain <= 0) { toast('Already complete'); return; }
   try { audio = audio || new (window.AudioContext || window.webkitAudioContext)(); audio.resume && audio.resume(); } catch (e) {}
   timer = { di, key, a: it.a, t: it.t, s: it.s, e: it.e, blockLen: it.len, len: Math.max(1, Math.min(len || remain, remain)), at: Date.now(), acc: 0, running: true };
   ls.set('focusapp:timer', timer); armTimerEnd(); keepAwake(true);
   $('nudge').classList.remove('on');
   if (route !== 'today') location.hash = 'today';
-  toast(`${emo(it.a)} Focus on. ${lineFor(it.a, Date.now())}`); renderAll();
+  toast(`Focus on. ${lineFor(it.a, Date.now())}`); renderAll();
 }
 function burst(color) {
   const host = $('hero'); if (!host || matchMedia('(prefers-reduced-motion: reduce)').matches) return;
@@ -696,11 +703,11 @@ function finishTimer(auto) {
     burst(col(T.a)); chime();
     const next = itemsFor(T.di).find(it => mins(it.s) >= mins(T.s) && it.key !== T.key && !blockDone(T.di, it));
     if (!document.hidden) nudge({ a: 'done', title: `${T.t}: complete`, line, meta: `+${m + 10} XP · ${m} min focused${next ? ` · next: ${next.t} at ${next.s}` : ''}`, actions: next ? [{ label: `Start ${next.t}`, primary: true, attrs: `data-act="start" data-d="${T.di}" data-k="${esc(next.key)}"` }] : [], seconds: 12 });
-    else notify(`✅ ${T.t} complete`, `${line}\n+${m + 10} XP · ${m} min focused`, { tag: 'done-' + T.key, image: 'img/n-done.png' });
+    else notify(`${T.t} complete`, `${line}\n+${m + 10} XP · ${m} min focused`, { tag: 'done-' + T.key, image: 'img/n-done.png' });
   } else {
     const left = blockLen - D.f[T.key];
     toast(`Saved ${m} min · ${left} min left to complete this block`);
-    if (auto) { chime(); notify(`⏱ Sprint done: ${T.t}`, `${m} min in. ${left} min to go to complete the block.`, { tag: 'sprint-' + T.key }); }
+    if (auto) { chime(); notify(`Sprint done: ${T.t}`, `${m} min in. ${left} min to go to complete the block.`, { tag: 'sprint-' + T.key }); }
   }
 }
 
@@ -1125,13 +1132,13 @@ document.addEventListener('click', async ev => {
     case 'notifOn': {
       S.settings.notify = true; save(); scheduleNotifications();
       if (!('Notification' in window)) { toast('Pop-up reminders on. This browser has no system notifications.'); renderPlan(now); break; }
-      try { const p = await Notification.requestPermission(); if (p === 'granted') { toast('Reminders on 🔔 Stories to tell, places to be.'); } else toast('Pop-up reminders on. Allow notifications in browser settings for lock-screen ones.'); } catch (e) { toast('Pop-up reminders on'); }
+      try { const p = await Notification.requestPermission(); if (p === 'granted') { toast('Reminders on. Stories to tell, places to be.'); } else toast('Pop-up reminders on. Allow notifications in browser settings for lock-screen ones.'); } catch (e) { toast('Pop-up reminders on'); }
       renderPlan(now); break;
     }
     case 'notifOff': S.settings.notify = false; save(); scheduleNotifications(); renderPlan(now); break;
     case 'notifTest': { const it = itemsFor(iso(now)).find(x => !blockDone(iso(now), x)) || { a: 'java', t: 'Java & DSA', s: '08:00', e: '09:30', key: 'test', len: 90 };
-      nudge({ a: it.a, title: `${emo(it.a)} Time for ${it.t}`, line: lineFor(it.a, Date.now()), meta: 'This is how reminders look inside the app.', actions: [] });
-      if (('Notification' in window) && Notification.permission === 'granted') { const was = S.settings.notify; S.settings.notify = true; await notify(`${emo(it.a)} Time for ${it.t}`, `${lineFor(it.a, Date.now() + 1)}\nThis is how reminders look on your lock screen.`, { tag: 'test', image: NIMG.has(it.a) ? `img/n-${it.a}.png` : undefined, actions: [{ action: 'start', title: '▶ Start focus' }, { action: 'later', title: 'Later' }], data: {} }); S.settings.notify = was; }
+      nudge({ a: it.a, title: `Time for ${it.t}`, line: lineFor(it.a, Date.now()), meta: 'This is how reminders look inside the app.', actions: [] });
+      if (('Notification' in window) && Notification.permission === 'granted') { const was = S.settings.notify; S.settings.notify = true; await notify(`Time for ${it.t}`, `${lineFor(it.a, Date.now() + 1)}\nThis is how reminders look on your lock screen.`, { tag: 'test', image: NIMG.has(it.a) ? `img/n-${it.a}.png` : undefined, actions: [{ action: 'start', title: 'Start focus' }, { action: 'later', title: 'Later' }], data: {} }); S.settings.notify = was; }
       else toast('Allow notifications to also get them on your lock screen'); break; }
     case 'ics': download(`goals-roadmap-${iso(now)}.ics`, buildICS(+$('icsW').value), 'text/calendar'); break;
     case 'export': download(`focus-backup-${iso(now)}.json`, JSON.stringify(S, null, 1), 'application/json'); break;
@@ -1195,6 +1202,7 @@ function go() {
   renderAll();
   if (route === 'goals' && openGoal) { const el = $('goal-' + openGoal); if (el) el.scrollIntoView({ block: 'center' }); } else window.scrollTo(0, 0);
 }
+document.querySelectorAll('#nav a').forEach(a => { a.insertAdjacentHTML('afterbegin', gl('nav-' + a.dataset.v)); });
 window.addEventListener('hashchange', go);
 let lastDay = iso(new Date()), lastMin = -1;
 const loop = setInterval(() => {

diff --git a/sw.js b/sw.js
@@ -1,6 +1,6 @@
 // Ascend service worker: offline app shell + notification clicks.
-const CACHE = 'ascend-f611a36cd6';
-const SHELL = ['./', './index.html', './manifest.webmanifest', './icons/icon-192.png', './icons/icon-512.png', './icons/icon-maskable-512.png', './icons/apple-touch-icon.png', './icons/badge-96.png', './favicon.png', './img/n-ai.png', './img/n-biz.png', './img/n-book.png', './img/n-comm.png', './img/n-done.png', './img/n-eng.png', './img/n-gym.png', './img/n-java.png', './img/n-math.png', './img/n-money.png', './img/n-net.png', './img/n-refl.png', './img/n-streak.png', './img/n-style.png', './img/n-uni.png', './img/n-zh.png'];
+const CACHE = 'ascend-5bd73c18f5';
+const SHELL = ['./', './index.html', './manifest.webmanifest', './icons/icon-192.png', './icons/icon-512.png', './icons/icon-maskable-512.png', './icons/apple-touch-icon.png', './icons/badge-96.png', './favicon.png', ];
 self.addEventListener('install', e => { e.waitUntil(caches.open(CACHE).then(c => c.addAll(SHELL)).then(() => self.skipWaiting())); });
 self.addEventListener('activate', e => { e.waitUntil(caches.keys().then(ks => Promise.all(ks.filter(k => k !== CACHE).map(k => caches.delete(k)))).then(() => self.clients.claim())); });
 self.addEventListener('fetch', e => {

diff --git a/README.md b/README.md
@@ -2,6 +2,8 @@
 
 Your goals, daily plan, focus timer, calendar, progress and reminders in one installable app.
 
+**Live app:** https://sheihab.github.io/ascend/
+
 - **Today**: live focus ring and timer, schedule, daily minimum, goals in focus
 - **Goals**: every goal on a timeline with milestones; add, edit, finish, pause or archive
 - **Calendar**: past days filled by completion, future plans, goal deadlines, daily notes
@@ -10,5 +12,5 @@ Your goals, daily plan, focus timer, calendar, progress and reminders in one ins
 
 A block only counts as complete when its focus timer reaches 00:00.
 
-Install: open the site in Chrome and choose **Install** (Mac) or **Install app / Add to Home screen** (Android).
+Install: open the live app in Chrome and choose **Install** (Mac) or **Install app** (Android).
 Your data stays on your device. Use Plan → Export backup to move it between devices.
